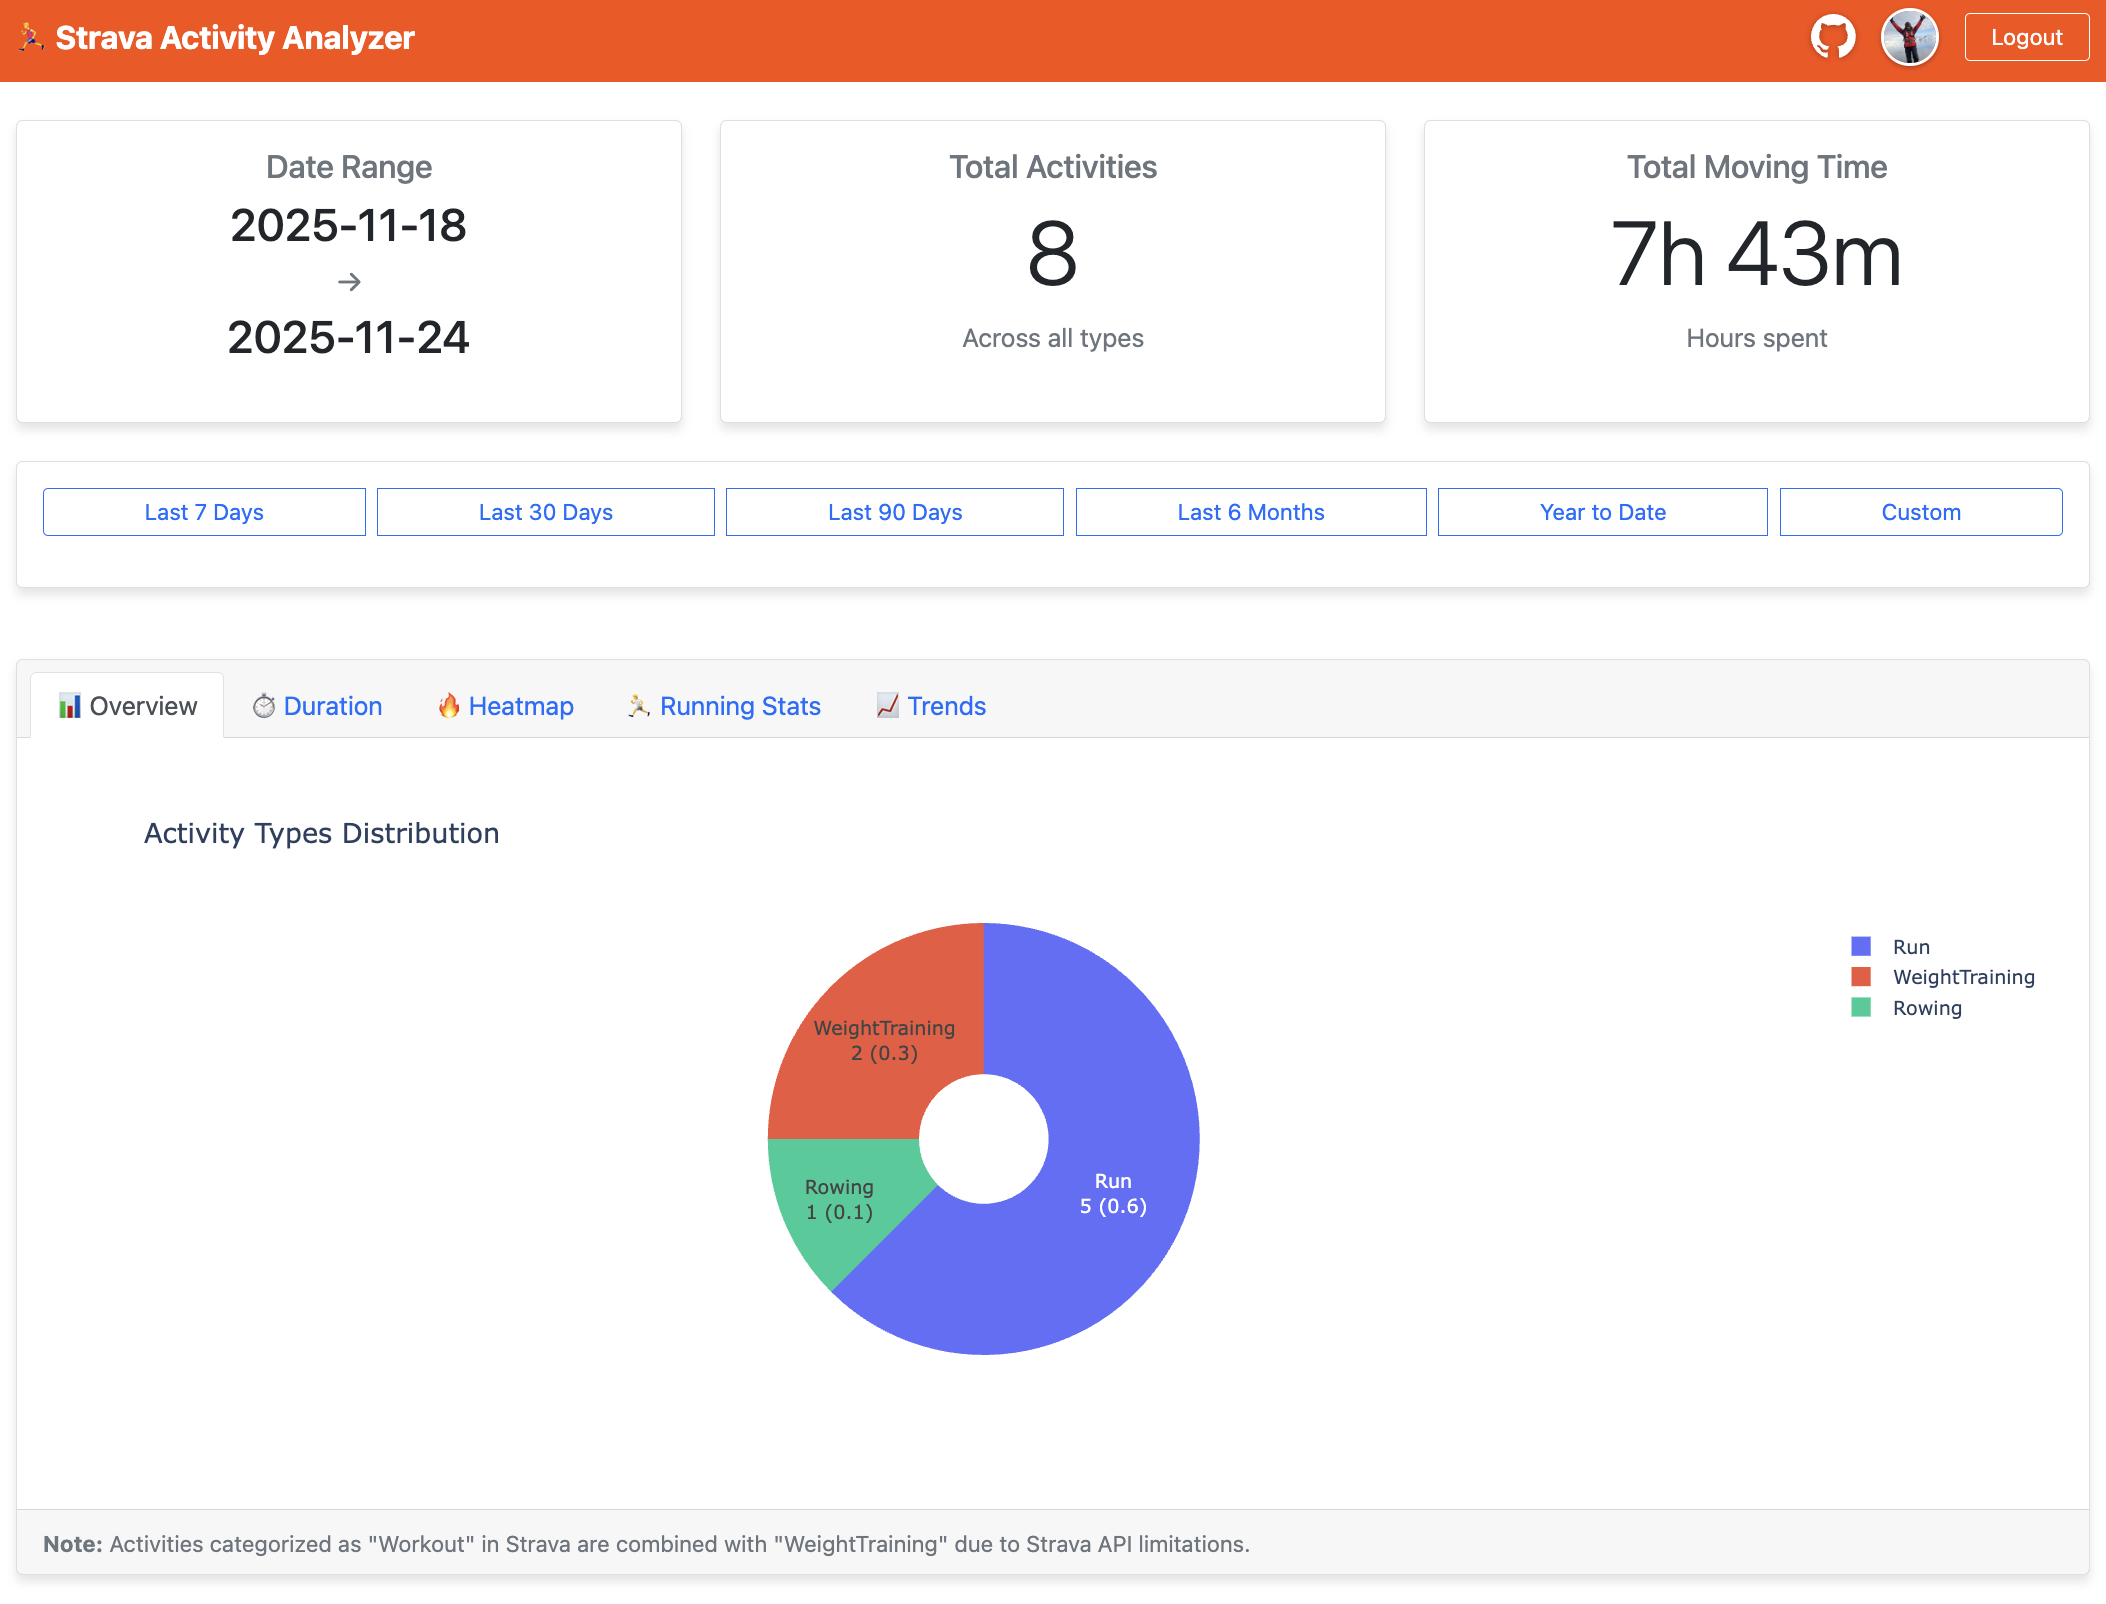
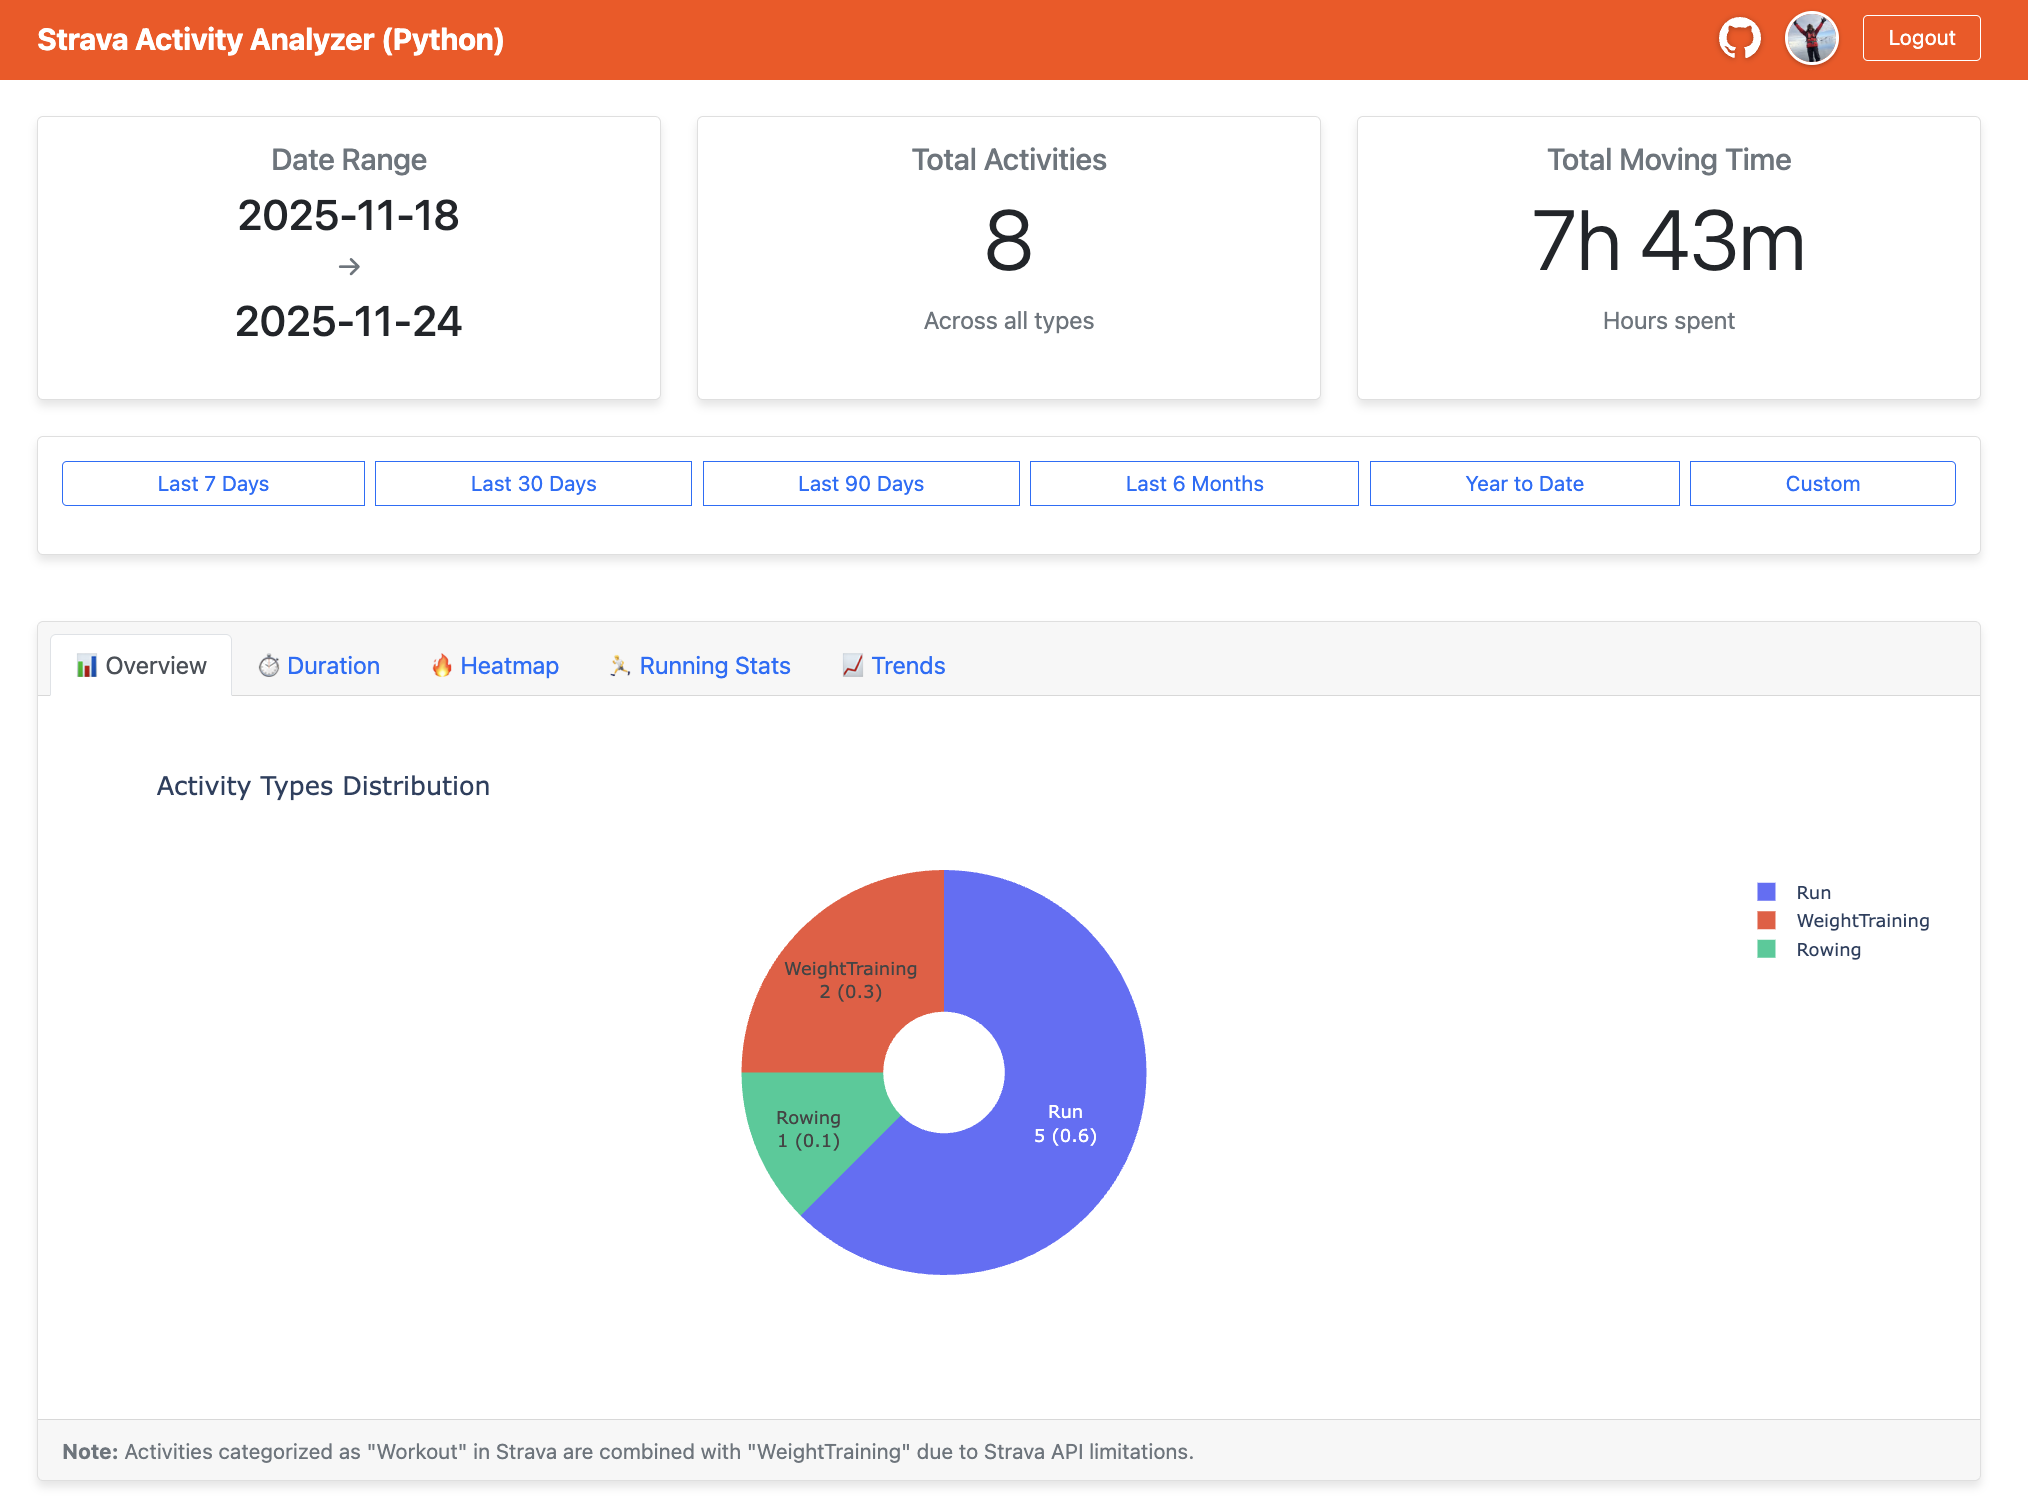
Add Python language identifier to branding
Updated title in README and web header to include "(Python)" and removed emoji from navbar for cleaner appearance. Updated overview screenshot to reflect the changes.

🤖 Generated with [Claude Code](https://claude.com/claude-code)

diff --git a/templates/base.html b/templates/base.html
@@ -50,7 +50,7 @@
 <body>
     <nav class="navbar navbar-expand-lg navbar-dark" style="background-color: #fc4c02;">
         <div class="container">
-            <a class="navbar-brand" href="{{ url_for('index') }}">🏃♂ Strava Activity Analyzer</a>
+            <a class="navbar-brand" href="{{ url_for('index') }}">Strava Activity Analyzer (Python)</a>
             <div class="navbar-nav ms-auto d-flex align-items-center gap-3">
                 <a class="nav-link p-0" href="https://github.com/arun-gupta/strava-stats" target="_blank" title="View on GitHub">
                     <svg height="28" width="28" viewBox="0 0 16 16" fill="white">

diff --git a/README.md b/README.md
@@ -1,4 +1,4 @@
-# Strava Activity Analyzer
+# Strava Activity Analyzer (Python)
 
 A Python Flask web application that connects to your Strava account and provides detailed analytics about your activities including activity distribution, time tracking, running metrics, pace analysis, personal records, and consistency tracking through heatmaps.
 
